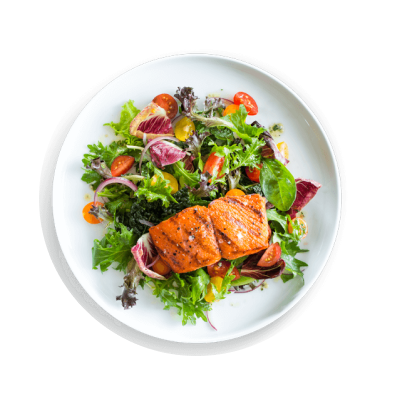
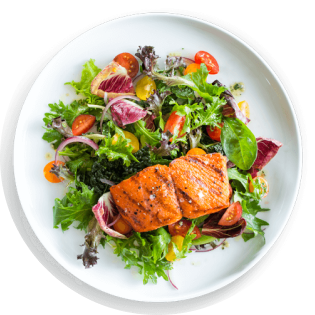
change images in favorites

diff --git a/src/partials/favorites.html b/src/partials/favorites.html
@@ -7,7 +7,7 @@
     <ul class="favorites__list">
       <li class="favorites__item">
         <a href="" class="favorites__link">
-          <picture class="favorites__img">
+          <picture>
             <!--Desktop-->
             <source
               media="(min-width: 1280px)"
@@ -69,7 +69,7 @@
       </li>
       <li class="favorites__item">
         <a href="" class="favorites__link">
-          <picture class="favorites__img">
+          <picture>
             <!--Desktop-->
             <source
               media="(min-width: 1280px)"
@@ -126,15 +126,11 @@
             <!--fallback-->
             <img src="./images/favorites/img-2@1x_lg.png" alt="pasta" />
           </picture>
-
-            <!--fallback-->
-            <img src="./images/favorites/img-2@1x_lg.png" alt="pasta" />
-          </picture>
         </a>
       </li>
       <li class="favorites__item">
         <a href="" class="favorites__link">
-          <picture class="favorites__img">
+          <picture>
             <!--Desktop-->
             <source
               media="(min-width: 1280px)"
@@ -196,7 +192,7 @@
       </li>
       <li class="favorites__item favorites__item--mobile">
         <a href="" class="favorites__link">
-          <picture class="favorites__img">
+          <picture>
             <!--Desktop-->
             <source
               media="(min-width: 1280px)"
@@ -236,13 +232,12 @@
             <!--fallback-->
 
             <img src="./images/favorites/img-4@1x_md.png" alt="chicken" />
-
           </picture>
         </a>
       </li>
       <li class="favorites__item favorites__item--mobile">
         <a href="" class="favorites__link">
-          <picture class="favorites__img">
+          <picture>
             <!--Desktop-->
             <source
               media="(min-width: 1280px)"
@@ -286,7 +281,7 @@
       </li>
       <li class="favorites__item favorites__item--mobile">
         <a href="" class="favorites__link">
-          <picture class="favorites__img">
+          <picture>
             <!--Desktop-->
             <source
               media="(min-width: 1280px)"

diff --git a/src/sass/layout/_favorites.scss b/src/sass/layout/_favorites.scss
@@ -58,13 +58,15 @@
     justify-content: center;*/
   /*border: 11px solid #FFE550;
     border-radius: 140px;*/
-  width: 250px;
-  height: 250px;
-
-  @media screen and (min-width: 480px) {
     width: 280px;
     height: 282px;
-  }
+  /*width: 250px;
+  height: 250px;*/
+
+  /*@media screen and (min-width: 480px) {
+    width: 280px;
+    height: 282px;
+  }*/
 
   @media screen and (min-width: 768px) {
     /* border-width: 14px;
@@ -95,14 +97,16 @@
   display: inline-flex;
   align-items: center;
   justify-content: center;
-  width: 250px;
-  height: 250px;
+  width: 280px;
+  height: 282px;
+  /*width: 250px;
+  height: 250px;*/
   transition: border-color $time-cubic;
 
-  @media screen and (min-width: 480px) {
+  /*@media screen and (min-width: 480px) {
     width: 280px;
     height: 282px;
-  }
+  }*/
 
   @media screen and (min-width: 768px) {
     border-width: 14px;
@@ -122,23 +126,4 @@
 .favorites__link:focus,
 .favorites__link:active {
   border-color: #bbf330;
-}
-
-.favorites__img {
-  width: 206px;
-  height: 206px;
-  @media screen and (min-width: 480px) {
-    width: 224px;
-    height: 224px;
-  }
-
-  @media screen and (min-width: 768px) {
-    width: 268px;
-    height: 270px;
-  }
-
-  @media screen and (min-width: 1280px) {
-    width: 315px;
-    height: 315px;
-  }
 }
